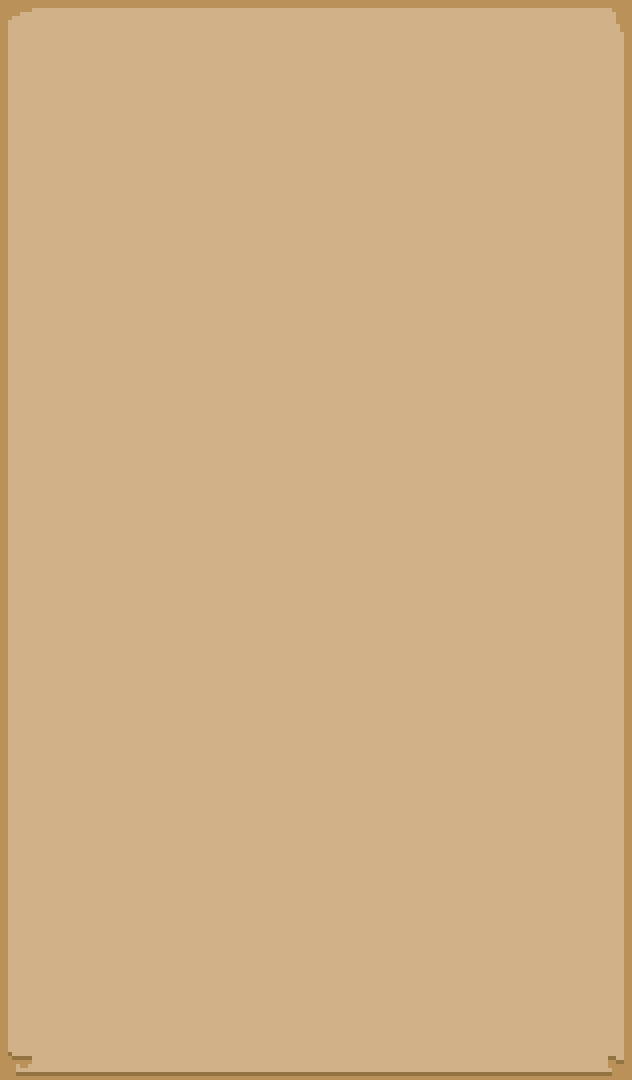
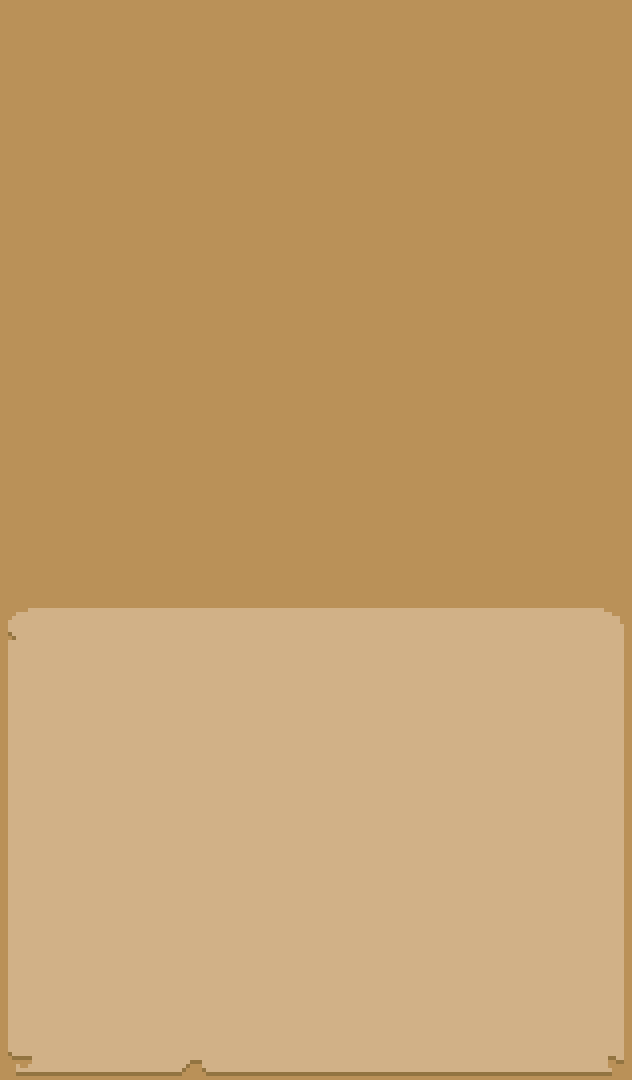
202303072136

diff --git a/src/game/NavigationArea.ts b/src/game/NavigationArea.ts
@@ -2,7 +2,6 @@ import Button from "../ui/common/Button";
 import SwitchButton from "../ui/common/SwitchButton";
 import eventHandler from "../contants/eventHandler";
 import MiniMapScene from "../scenes/MiniMapScene";
-import world from "../contants/world";
 
 class NavigationArea {
   private scene: Phaser.Scene;
@@ -21,17 +20,38 @@ class NavigationArea {
     const miniMapScene = new MiniMapScene();
     const size = 78;
     const offsetX = 575;
-    const offsetY = 175;
-    const text = this.scene.add.text(1390, 20, "Month: 1 Week: 1 Day: 1", {
+    const offsetY = 152;
+    const dateBackground = this.scene.add.image(1618, 885, "uiDateBackground");
+    const textMonthWeek = this.scene.add.text(1630, 890, "Month: 1 Week: 1", {
       font: "24px Oswald",
+      color: "#4b3d44",
+    });
+    const textDay = this.scene.add.text(1630, 916, "Day: 1", {
+      font: "32px Oswald",
       color: "#4b3d44",
     });
 
     this.scene.scene.add("MiniMapScene", miniMapScene);
     miniMapScene.scene.start();
+    dateBackground.setOrigin(0);
 
     const x = this.scene.scale.gameSize.width - offsetX + size * 6;
     const y = this.scene.scale.gameSize.height - offsetY;
+
+    const nextTurnButton = new Button(
+      this.scene,
+      x - size * 2,
+      y + size,
+      "nextTurn",
+      this.handleNextTurnClick
+    );
+    const menuButton = new Button(
+      this.scene,
+      x - size,
+      y + size,
+      "menu",
+      this.handleMenuClick
+    );
     const fullScreenButton = new SwitchButton(
       this.scene,
       x,
@@ -139,6 +159,10 @@ class NavigationArea {
   private handleRightClick = (): void => {
     eventHandler.emit("rigth");
   };
+
+  private handleNextTurnClick = (): void => {};
+
+  private handleMenuClick = (): void => {};
 
   private handleFullScreenClick = (): void => {
     this.scene.scale.toggleFullscreen();

diff --git a/src/scenes/GameScene.ts b/src/scenes/GameScene.ts
@@ -39,7 +39,19 @@ class GameScene extends Phaser.Scene {
     this.load.image("minimapMark", `${path}/ui/minimap_mark.png`);
     this.load.image("minimapLoot", `${path}/ui/minimap_gold.png`);
     this.load.image("minimapLocation", `${path}/ui/minimap_location.png`);
-    this.load.image("uiMove", `${path}/ui/move_ui.png`);
+    this.load.image("uiDateBackground", `${path}/ui/date_background.png`);
+    this.load.spritesheet("nextTurn", `${path}/ui/next_turn.png`, {
+      frameWidth: 78,
+      frameHeight: 78,
+      startFrame: 0,
+      endFrame: 1,
+    });
+    this.load.spritesheet("menu", `${path}/ui/menu.png`, {
+      frameWidth: 78,
+      frameHeight: 78,
+      startFrame: 0,
+      endFrame: 1,
+    });
     this.load.spritesheet("fullScreen", `${path}/ui/full_screen.png`, {
       frameWidth: 78,
       frameHeight: 78,
@@ -87,7 +99,7 @@ class GameScene extends Phaser.Scene {
     const uiBackground = this.add.image(0, 0, "uiBackground");
     const uiBorder = this.add.image(0, 0, "uiBorder");
     const uiRightBack = this.add.image(1288, 0, "uiRightBack");
-    const uiMapBorder = this.add.image(1380, 60, "uiMapBorder");
+    const uiMapBorder = this.add.image(1308, 8, "uiMapBorder");
 
     uiBackground.setOrigin(0);
     uiBorder.setOrigin(0);

diff --git a/src/scenes/MiniMapScene.ts b/src/scenes/MiniMapScene.ts
@@ -11,10 +11,10 @@ class MiniMapScene extends Phaser.Scene {
   }
 
   public create(): void {
-    const miniMapSize = 7;
+    const miniMapSize = 9;
     const size = 64;
-    const offsetX = 500;
-    const offsetY = 100;
+    const offsetX = 572;
+    const offsetY = 48;
     const worldMap = world.worldMaps.find(
       (worldMap) => worldMap.level === player.currentLevel
     );
@@ -39,8 +39,8 @@ class MiniMapScene extends Phaser.Scene {
     }
 
     this._minimapArrow = this.add.image(
-      this.scale.gameSize.width - offsetX + 3 * size,
-      offsetY + 3 * size,
+      this.scale.gameSize.width - offsetX + 4 * size,
+      offsetY + 4 * size,
       "minimapArrow"
     );
 
@@ -49,7 +49,7 @@ class MiniMapScene extends Phaser.Scene {
   }
 
   public update(): void {
-    const miniMapSize = 7;
+    const miniMapSize = 9;
     const worldMap = world.worldMaps.find(
       (worldMap) => worldMap.level === player.currentLevel
     );

diff --git a/src/game/PortraitArea.ts b/src/game/PortraitArea.ts
@@ -11,7 +11,7 @@ class PortraitArea {
   public init() {
     const size = 155;
     const offsetX = 550;
-    const offsetY = 400;
+    const offsetY = 380;
     const y = this._scene.scale.gameSize.height - offsetY;
     const portraits = [
       "portrait",
